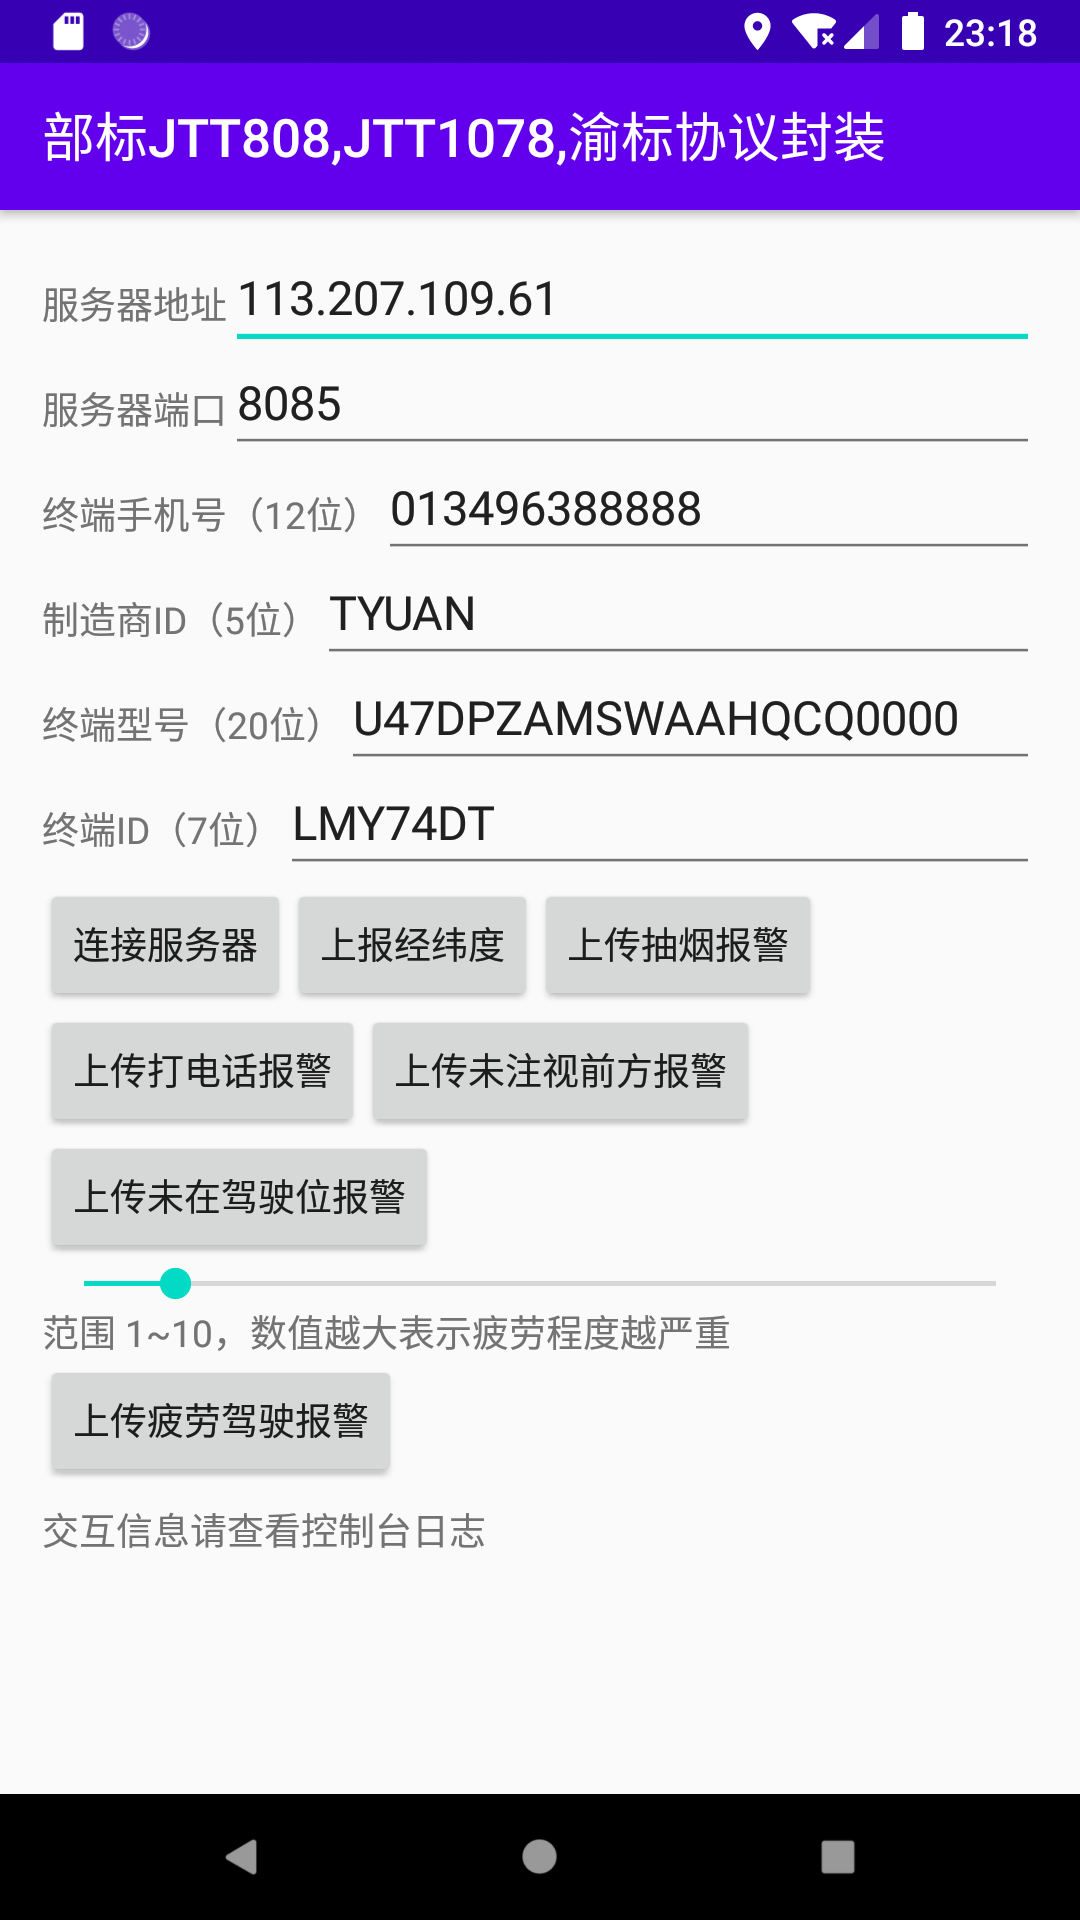
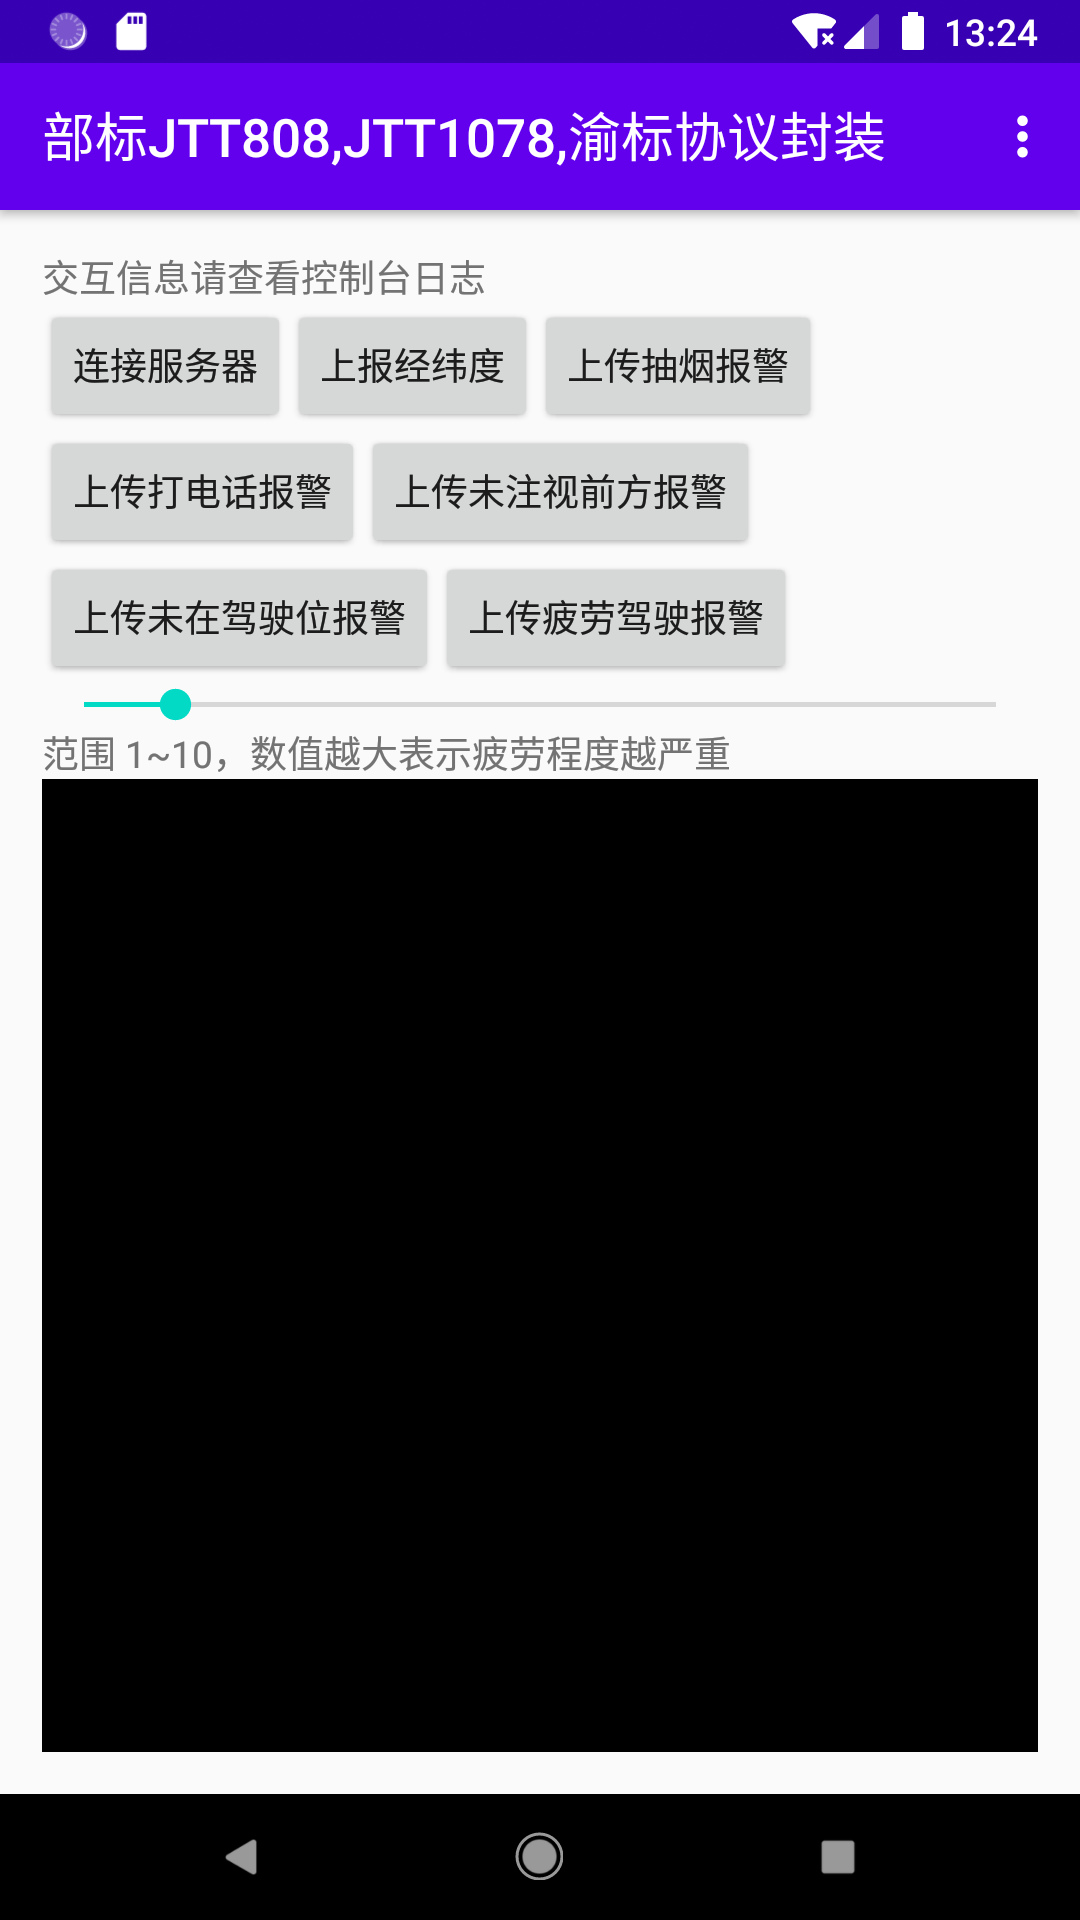
更新截图文件

diff --git a/README.md b/README.md
@@ -33,7 +33,11 @@
 
 ### 效果图
 
-<img src="https://github.com/azhon/JTTProtocol/blob/master/img/screencap.png" width="300">
+<img
+src="https://github.com/azhon/JTTProtocol/blob/master/img/screencap.png"
+width="300">&nbsp;<img
+src="https://github.com/azhon/JTTProtocol/blob/master/img/screencap1.png"
+width="300">
 
 <img src="https://github.com/azhon/JTTProtocol/blob/master/img/log.png">
 
